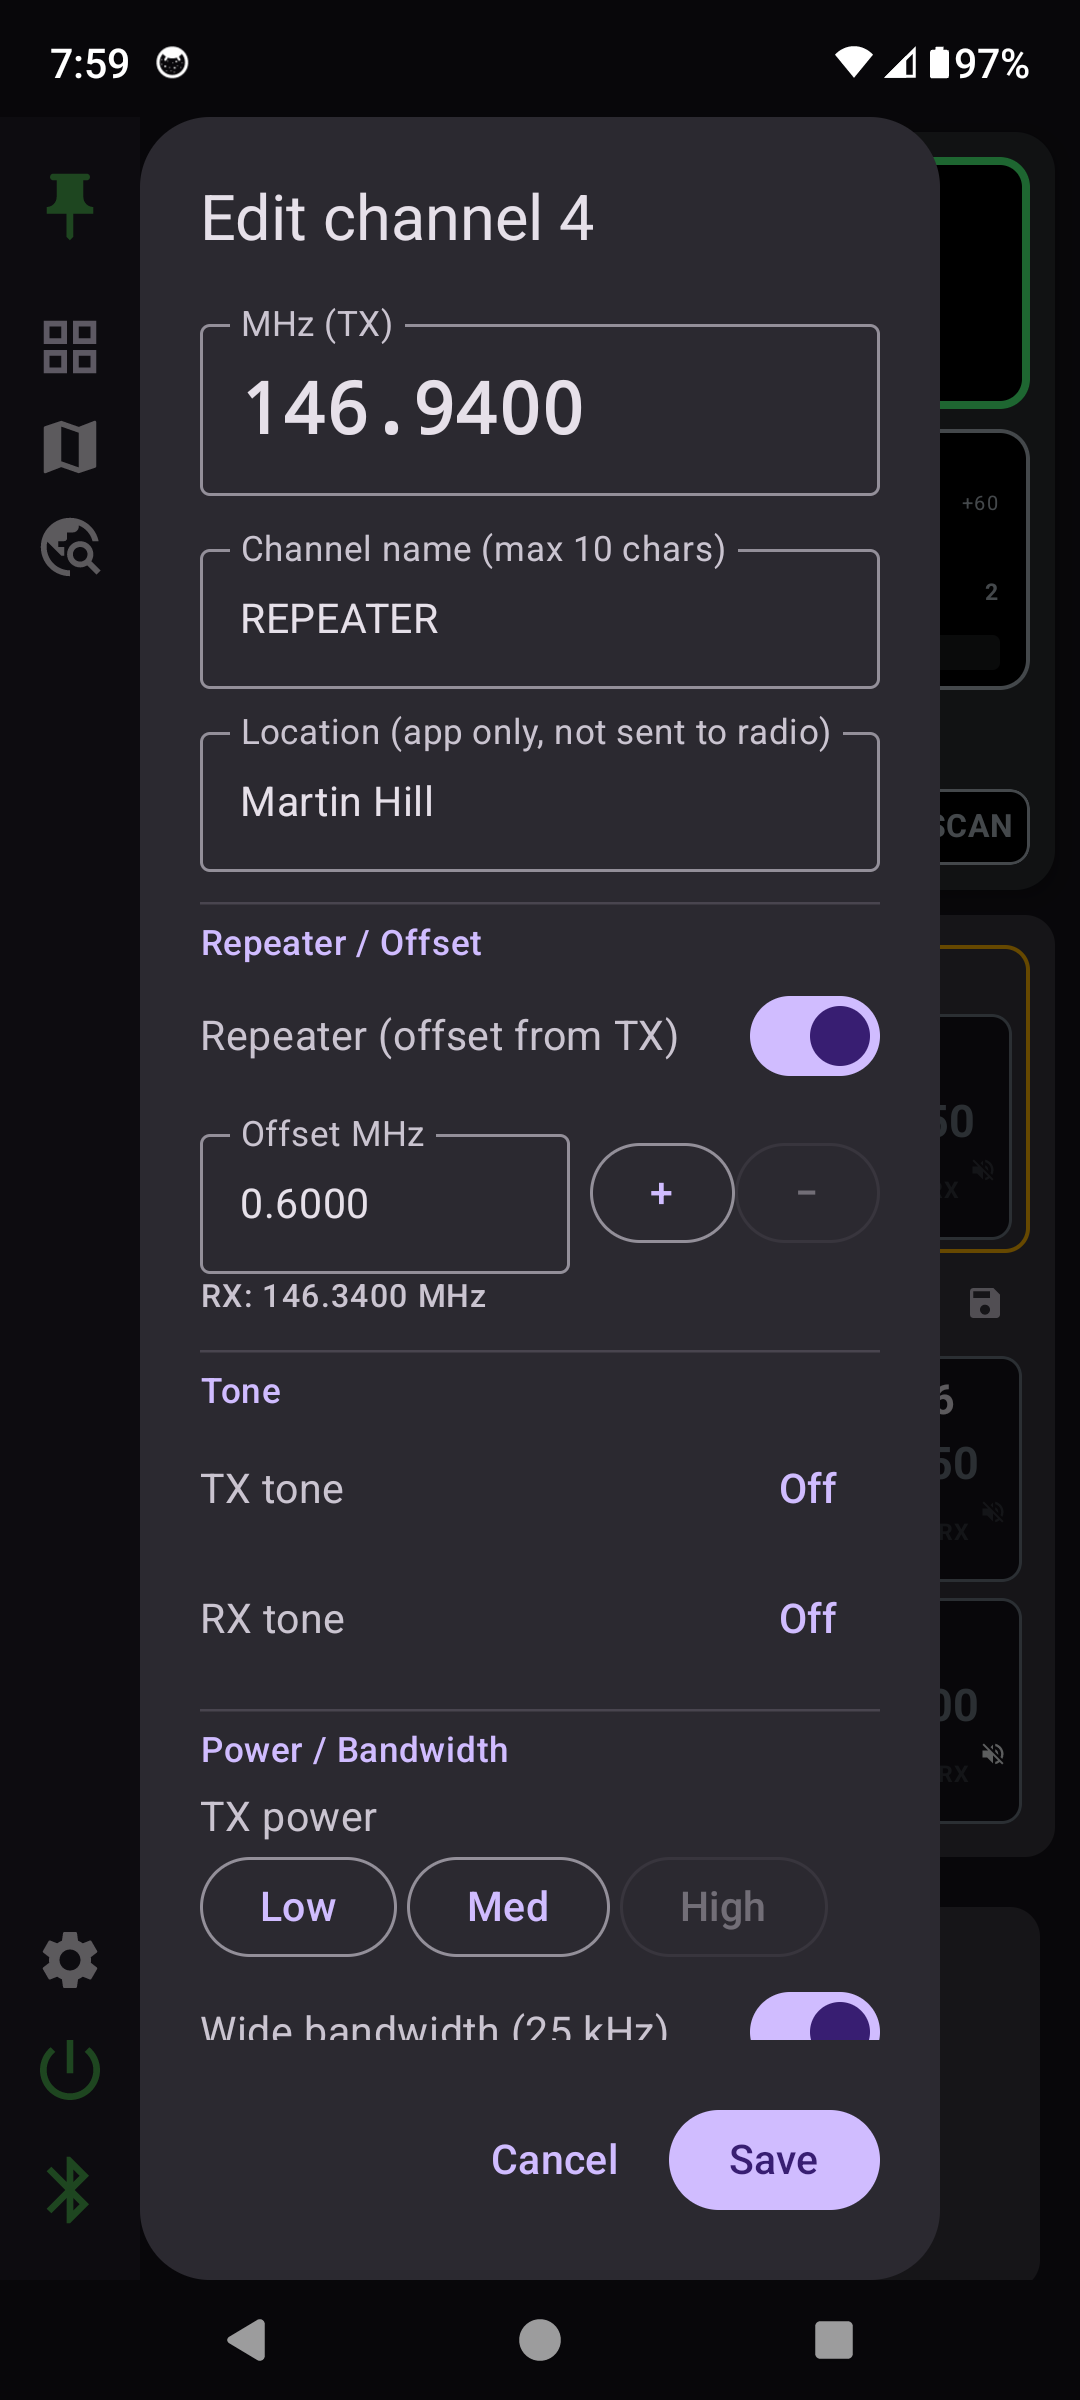
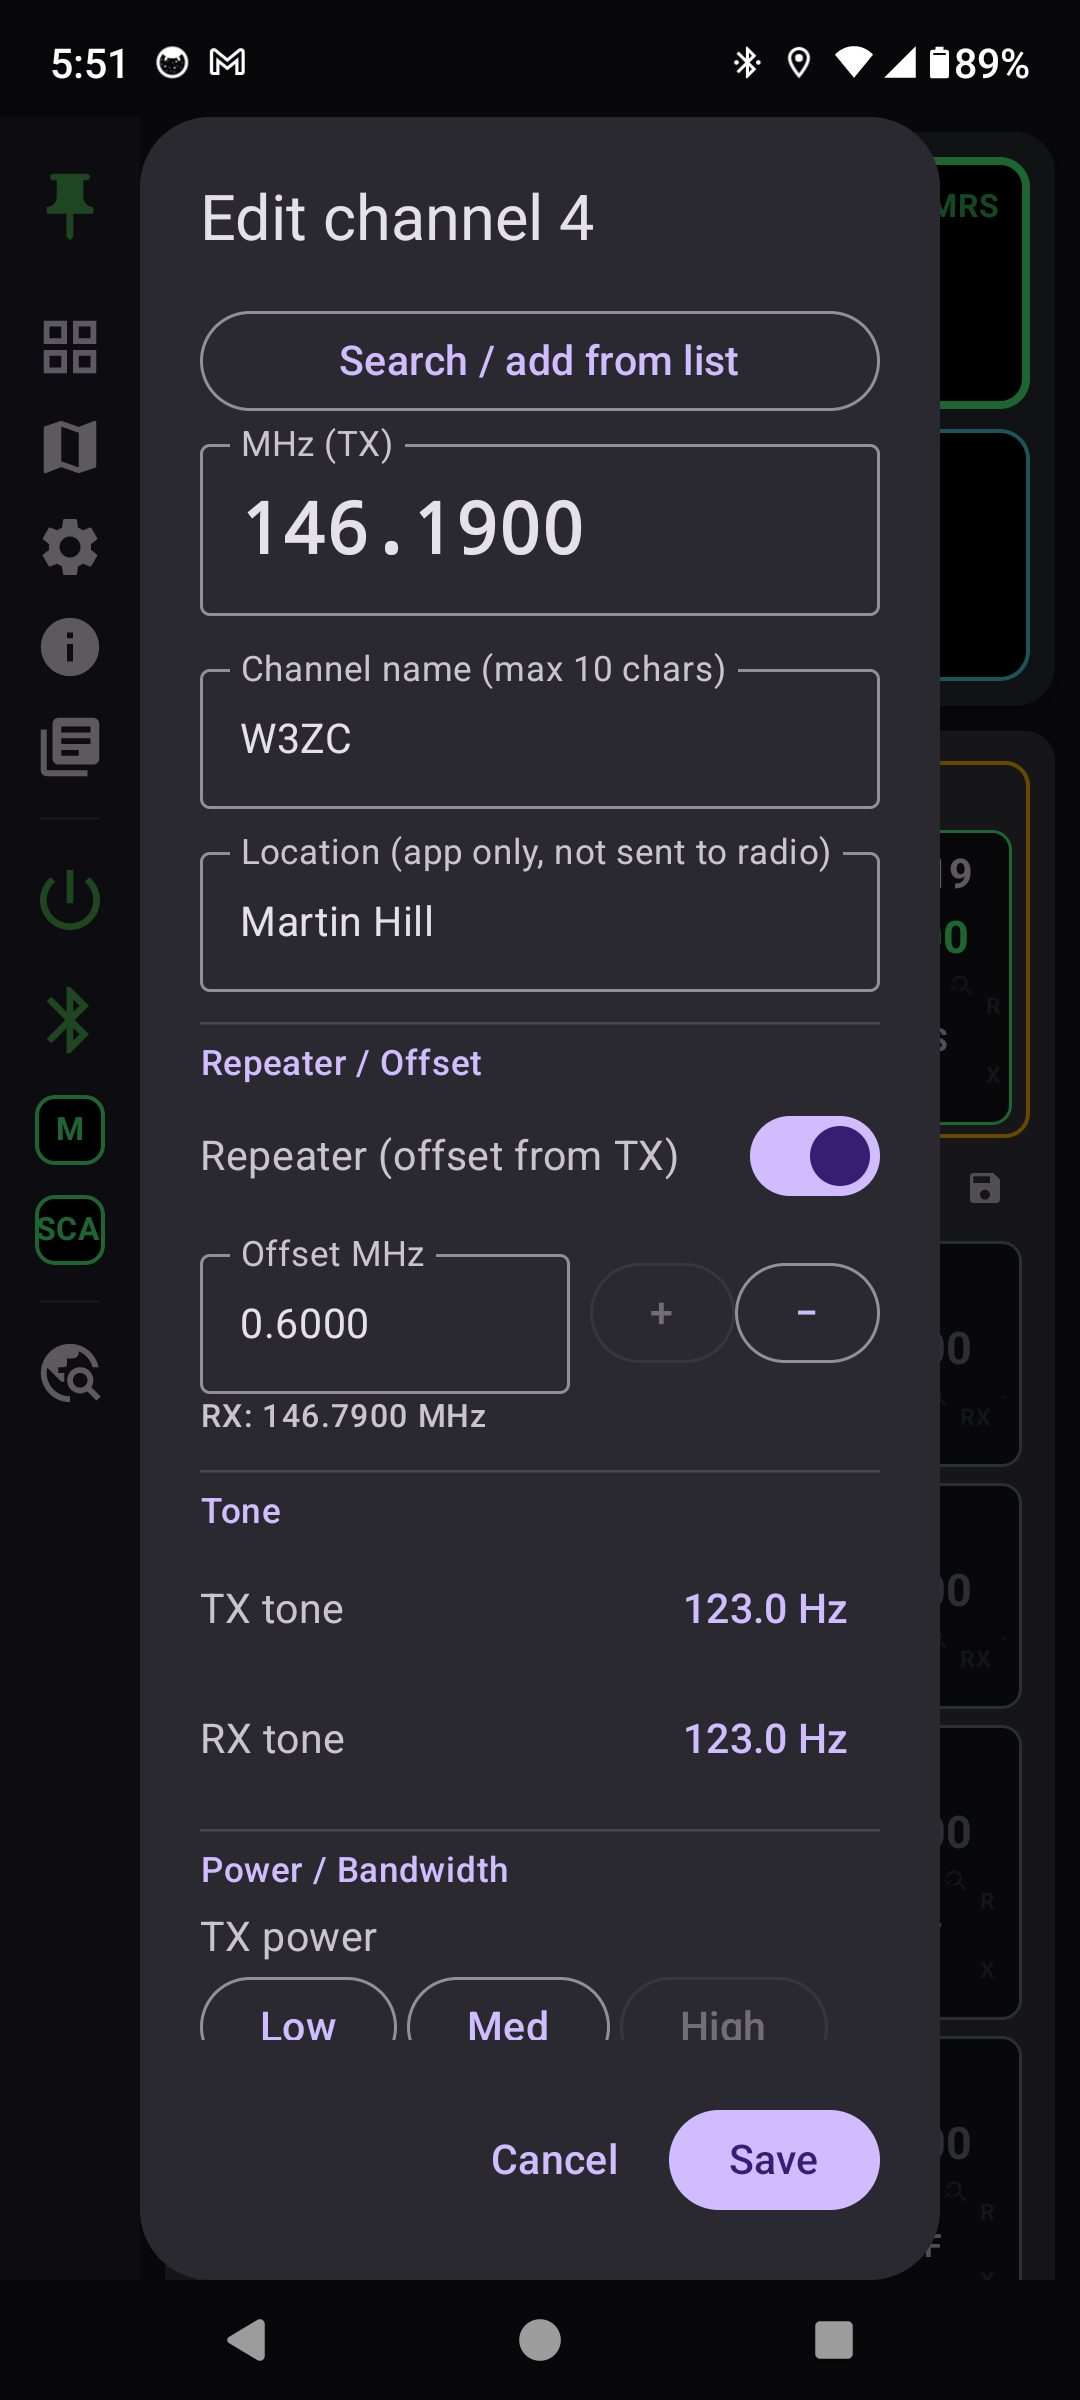
Update N7500 Dashboard show & tell with current features and screenshots
Adds Connect (radios-only list), Floating Window, and Channel Library &
Search sections; refreshes dashboard, channel editor, long-press menu, and
Groups screenshots from a live VR-N7500 session; updates pricing and
closed-testing status to match the trial/unlock model.

diff --git a/N7500Dash/show-and-tell.html b/N7500Dash/show-and-tell.html
@@ -251,14 +251,14 @@
       <div class="badges">
         <span class="badge">On-device only, no cloud</span>
         <span class="badge">Built for ham radio operators</span>
-        <span class="badge">Free &amp; open</span>
+        <span class="badge">15-day free trial</span>
       </div>
     </div>
 
     <div class="status-banner">
-      <strong>Preparing for closed testing.</strong> Every feature on this page
-      is built and verified live on real hardware — this tracks what's actually
-      done, not a roadmap.
+      <strong>Now in closed testing on Google Play.</strong> Every screenshot
+      on this page is from the app running against a real VR-N7500 — this
+      tracks what's actually done, not a roadmap.
     </div>
 
     <p class="intro">
@@ -276,6 +276,35 @@
     </div>
 
     <div class="features">
+      <div class="feature reverse">
+        <div class="text">
+          <div class="eyebrow">Connect</div>
+          <h2>Only your radio, not every earbud in range</h2>
+          <p>
+            The connect screen lists only devices it knows are radios — ones
+            you've connected to before, or ones named like a radio in this
+            family. Earbuds, car stereos, and watches stay out of the way. If
+            yours isn't listed, one tap on "Not listed?" shows everything
+            nearby.
+          </p>
+          <ul>
+            <li>
+              Reconnects to your radio on its own the next time it's in range
+            </li>
+            <li>
+              No radio handy? "Use offline" lets you browse and edit your
+              last-known channels and settings anyway
+            </li>
+          </ul>
+        </div>
+        <div class="shots">
+          <img
+            src="screenshots/connect-radios-only.png"
+            alt="N7500 Dashboard connect screen listing only the VR-N7500, with a Not listed? Show all devices (7 hidden) button"
+          />
+        </div>
+      </div>
+
       <div class="feature">
         <div class="text">
           <div class="eyebrow">Dashboard</div>
@@ -297,9 +326,14 @@
               receiving
             </li>
             <li>
-              Squelch, power level, and work mode all write to the radio the
-              instant you touch them — no separate "save" step, the same as
-              turning a physical knob
+              Every channel and both VFO slots show their band — VHF, UHF,
+              GMRS, MURS, and more — so you know what you're on without doing
+              the math
+            </li>
+            <li>
+              Power (L/M/H) and I/II/Scan live in the side menu as one-tap
+              toggles, and write to the radio the instant you tap them — no
+              separate "save" step, the same as turning a physical knob
             </li>
           </ul>
         </div>
@@ -312,6 +346,25 @@
       </div>
 
       <div class="feature reverse">
+        <div class="text">
+          <div class="eyebrow">Floating Window</div>
+          <h2>Slot A and B, even when you leave the app</h2>
+          <p>
+            Switch to maps or anything else and a small floating window keeps
+            both slots in view — the active channel on top, the last one heard
+            below, in the same colors as the dashboard. It only appears while a
+            radio is connected, so it never clutters your screen for nothing.
+          </p>
+        </div>
+        <div class="shots">
+          <img
+            src="screenshots/pip-overlay.png"
+            alt="N7500 Dashboard's floating window over the home screen showing Slot A GMRS 19 462.6500 and Slot B KK3L 146.1450"
+          />
+        </div>
+      </div>
+
+      <div class="feature">
         <div class="text">
           <div class="eyebrow">Channel Editor</div>
           <h2>Every field the radio actually has</h2>
@@ -337,6 +390,36 @@
           <img
             src="screenshots/channel-edit.png"
             alt="N7500 Dashboard's full channel editor with frequency, offset, tone, and power fields"
+          />
+        </div>
+      </div>
+
+      <div class="feature reverse">
+        <div class="text">
+          <div class="eyebrow">Channel Library &amp; Search</div>
+          <h2>Fill a channel without typing it in</h2>
+          <p>
+            "Search / add from list" in the channel editor pulls from two
+            places: <strong>My Channels</strong>, a library of every channel
+            you've saved before, and <strong>RepeaterBook</strong>, sorted by
+            distance from you. Heading out of town? Type a city, state, or ZIP
+            and search around there instead.
+          </p>
+          <ul>
+            <li>
+              Picking a result only fills in the form — nothing is sent to the
+              radio until you tap Save and confirm
+            </li>
+            <li>
+              The Library screen keeps your saved channels in one place, ready
+              to drop into any Group
+            </li>
+          </ul>
+        </div>
+        <div class="shots">
+          <img
+            src="screenshots/channel-search.png"
+            alt="N7500 Dashboard's Search / add from list dialog showing nearby RepeaterBook repeaters with distances and a search-a-place box"
           />
         </div>
       </div>
@@ -373,6 +456,12 @@
             Group, so the channels you use most are never one load away from
             disappearing.
           </p>
+          <ul>
+            <li>
+              Share a Group with another operator through Android's share menu
+              — email, Messages, Drive, Bluetooth — and import one they sent you
+            </li>
+          </ul>
         </div>
         <div class="shots">
           <img
@@ -454,8 +543,12 @@
         N7500 Dashboard requires a VGC/Vero VR-N7500 — or a radio in the same
         Benshi Bluetooth protocol family (Vero VR-N7600/VR-N75/VR-N76, BTECH
         UV-Pro/UV-50PRO/GMRS-Pro, Radioddity DB50-B/GA-5WB, Retevis RT99/RT78,
-        Radtel RT-660/RN15) — to connect to. Not yet published; closed testing
-        is next.
+        Radtel RT-660/RN15) — to connect to.
+      </p>
+      <p>
+        Try it free for 15 days. After your trial, keep using it with a one-time
+        lifetime purchase or a low-cost monthly subscription — whichever you
+        prefer. Now in closed testing on Google Play.
       </p>
       <p><a href="privacy-policy.html">Privacy Policy</a></p>
     </div>
